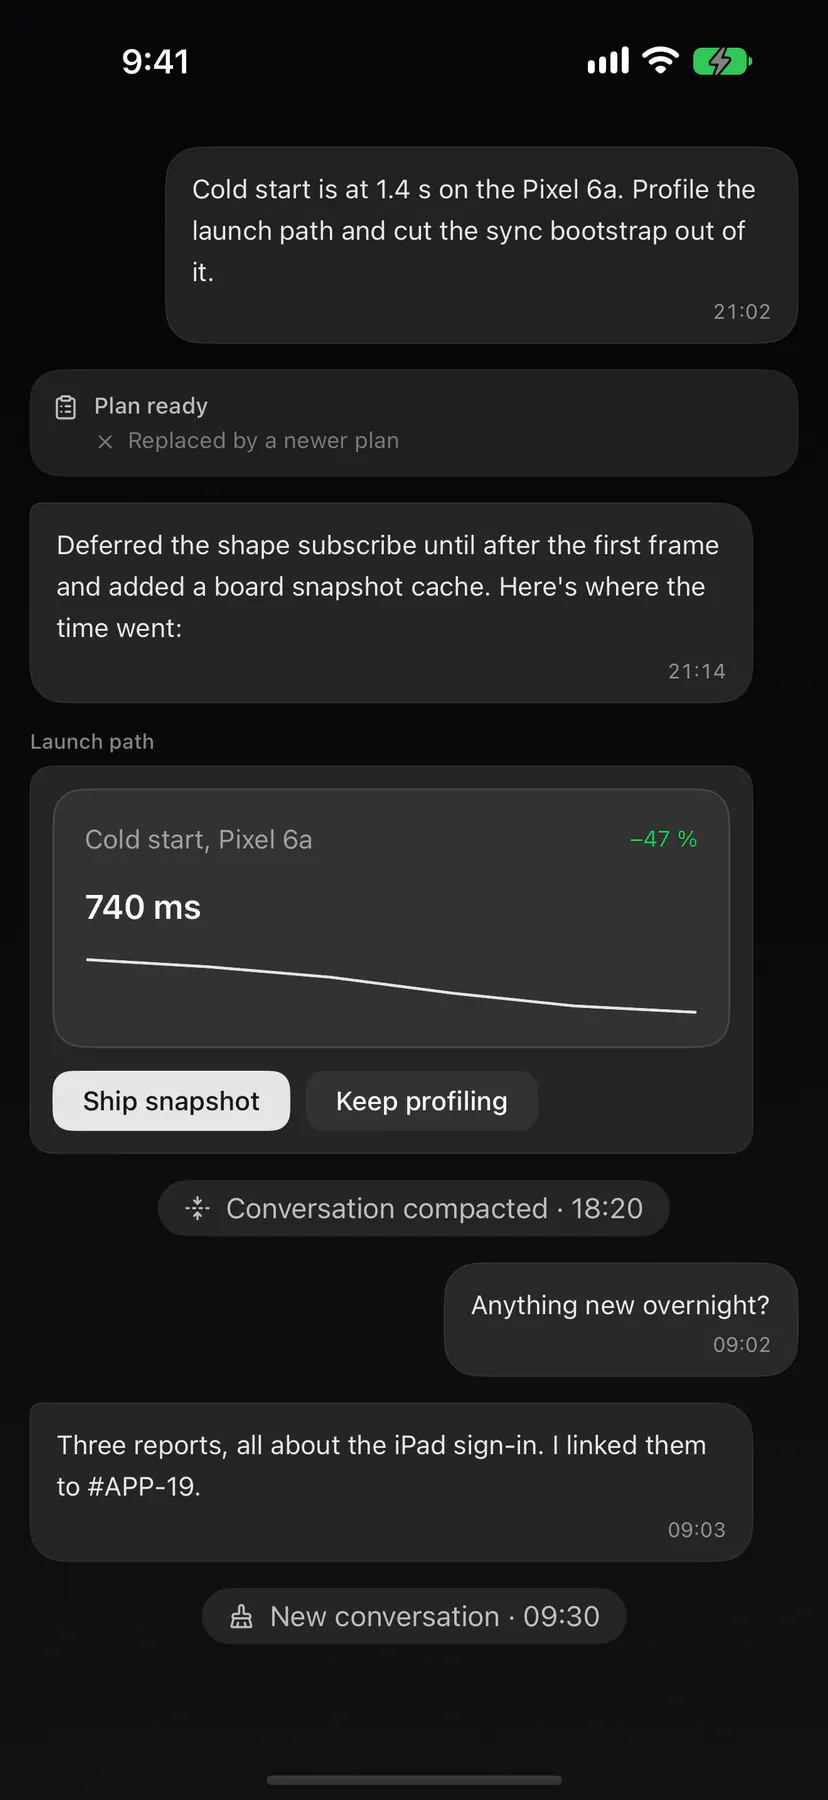
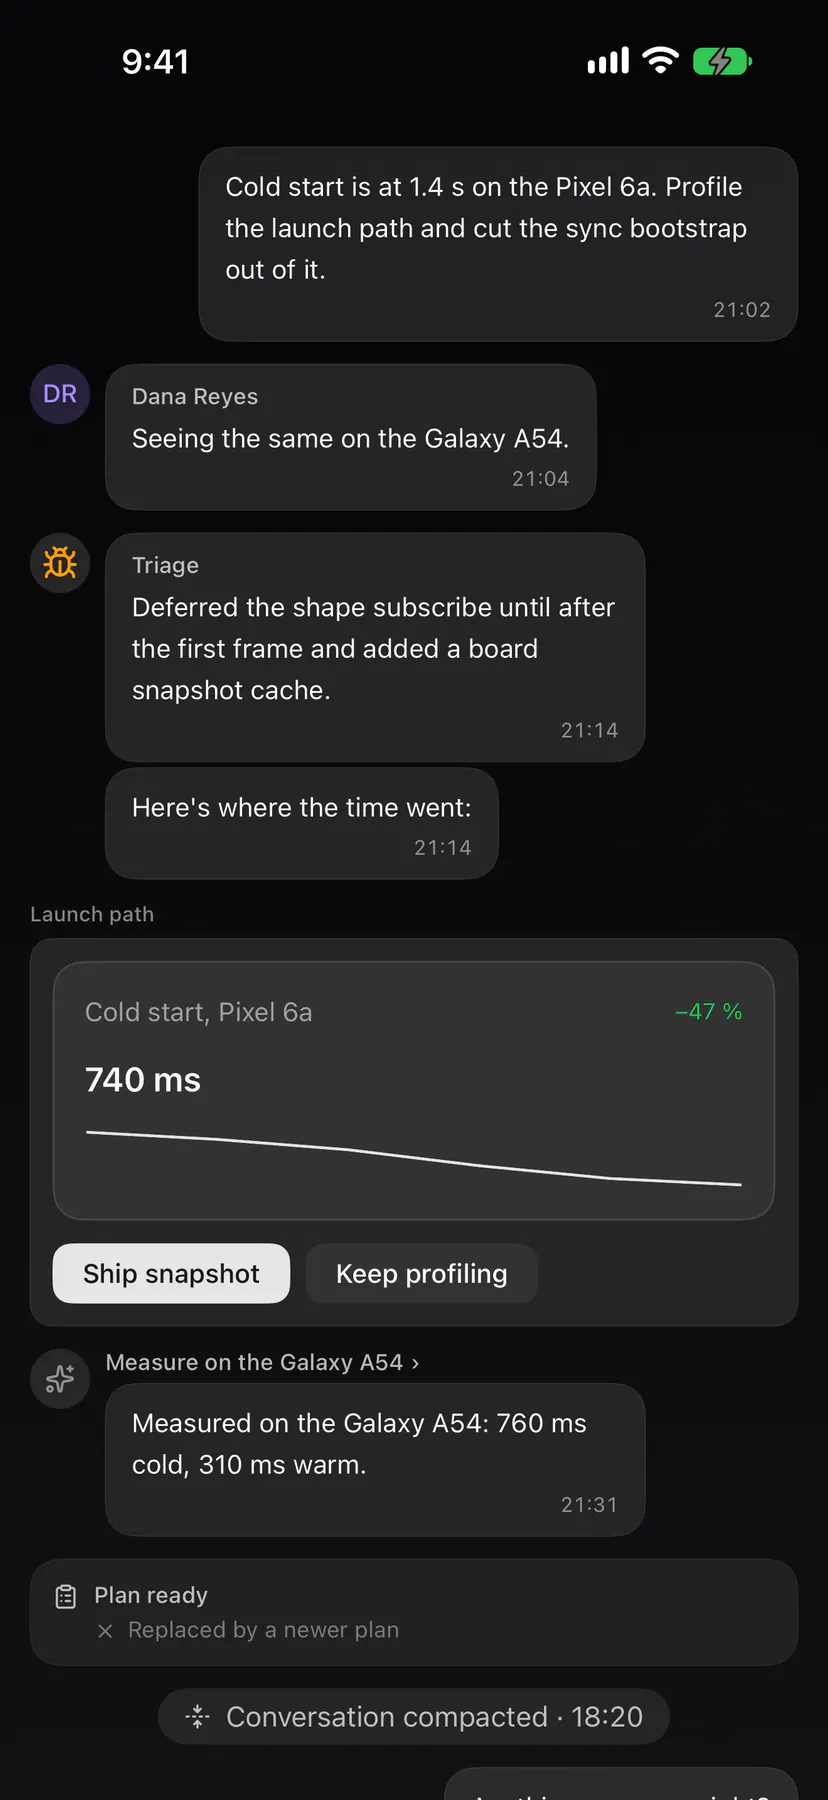
EXP-1772 iOS: chat-transcript specimen gains the busy agent chat (schedule + merge markers, a relay), shot re-recorded

diff --git a/apps/ios/Exponential/UI/Components/ChatSpecimens.swift b/apps/ios/Exponential/UI/Components/ChatSpecimens.swift
@@ -564,6 +564,8 @@ struct ChatTranscriptSpecimens: View {
         let item: TranscriptGrouping.Item
         let text: String?
         let time: String?
+        /// #EXP-1772: an `event` row's line (THE inline marker).
+        var marker: String? = nil
     }
 
     private static let member = UserEntity(
@@ -578,6 +580,10 @@ struct ChatTranscriptSpecimens: View {
         Row(item: TranscriptGrouping.Item(id: id, kind: .full), text: nil, time: nil)
     }
 
+    private static func event(_ id: String, _ text: String) -> Row {
+        Row(item: TranscriptGrouping.Item(id: id, kind: .full), text: nil, time: nil, marker: text)
+    }
+
     private static let rows: [Row] = [
         message("m1", "user", author: "u1", "Cold start is at 1.4 s on the Pixel 6a. Profile the launch path and cut the sync bootstrap out of it.", "21:02"),
         message("m2", "user", author: "u2", "Seeing the same on the Galaxy A54.", "21:04"),
@@ -589,6 +595,12 @@ struct ChatTranscriptSpecimens: View {
         card("compact"),
         message("m6", "user", author: "u1", "Anything new overnight?", "09:02"),
         message("m7", "agent", "Three reports, all about the iPad sign-in. I linked them to #APP-19.", "09:03"),
+        // #EXP-1772: a busy agent chat: a schedule fire above the reply it
+        // got, a merge event, a session's relay.
+        event("e1", SessionTree.ChatCopy.events["trigger_schedule"] ?? "Schedule"),
+        message("m8", "agent", "PR #412 merged overnight; the iPad sign-in reports stopped.", "07:00"),
+        event("e2", "Merged PR #412"),
+        message("x2", "agent", session: "c-fix", "Verified on the iPad: sign-in keeps the return URL, and the redirect loop is gone on Safari too.", "08:41"),
         card("new"),
     ]
 
@@ -598,7 +610,10 @@ struct ChatTranscriptSpecimens: View {
             chat: TranscriptGrouping.Chat(sessionId: "a1", title: "Triage", agentId: "ag1", originSessionId: nil),
             members: [TranscriptGrouping.Named(id: "u1", name: "Alex"), TranscriptGrouping.Named(id: "u2", name: "Dana Reyes")],
             agents: [TranscriptGrouping.Named(id: "ag1", name: "Triage")],
-            sessions: [TranscriptGrouping.KnownSession(id: "c1", title: "Measure on the Galaxy A54", agentId: nil)],
+            sessions: [
+                TranscriptGrouping.KnownSession(id: "c1", title: "Measure on the Galaxy A54", agentId: nil),
+                TranscriptGrouping.KnownSession(id: "c-fix", title: "Fix the sign-in redirect", agentId: nil),
+            ],
             items: rows.map(\.item)
         )
         return Dictionary(uniqueKeysWithValues: TranscriptGrouping.transcriptLayout(input).map { ($0.id, $0) })
@@ -627,6 +642,8 @@ struct ChatTranscriptSpecimens: View {
                     AgentMarkdownText(text: text, context: context, hugsWidth: true)
                 }
             }
+        } else if let marker = row.marker {
+            TranscriptMarkerRow(label: marker, icon: nil)
         } else {
             switch row.item.id {
             case "surface":

diff --git a/apps/ios/Exponential/UI/Session/AgentSessionView.swift b/apps/ios/Exponential/UI/Session/AgentSessionView.swift
@@ -4280,7 +4280,7 @@ private struct PermissionRow: View {
 /// Centered and muted — it is punctuation, not a turn. `compactedLabel` is
 /// byte-identical on all four clients. #EXP-1772: THE inline marker ×4, a
 /// system input's too (`label` = transcript-grouping.json `copy.markers`).
-private struct TranscriptMarkerRow: View {
+struct TranscriptMarkerRow: View {
     var label: String = AgentFeed.compactedLabel
     var icon: String? = AppIcons.codingCompact
 
